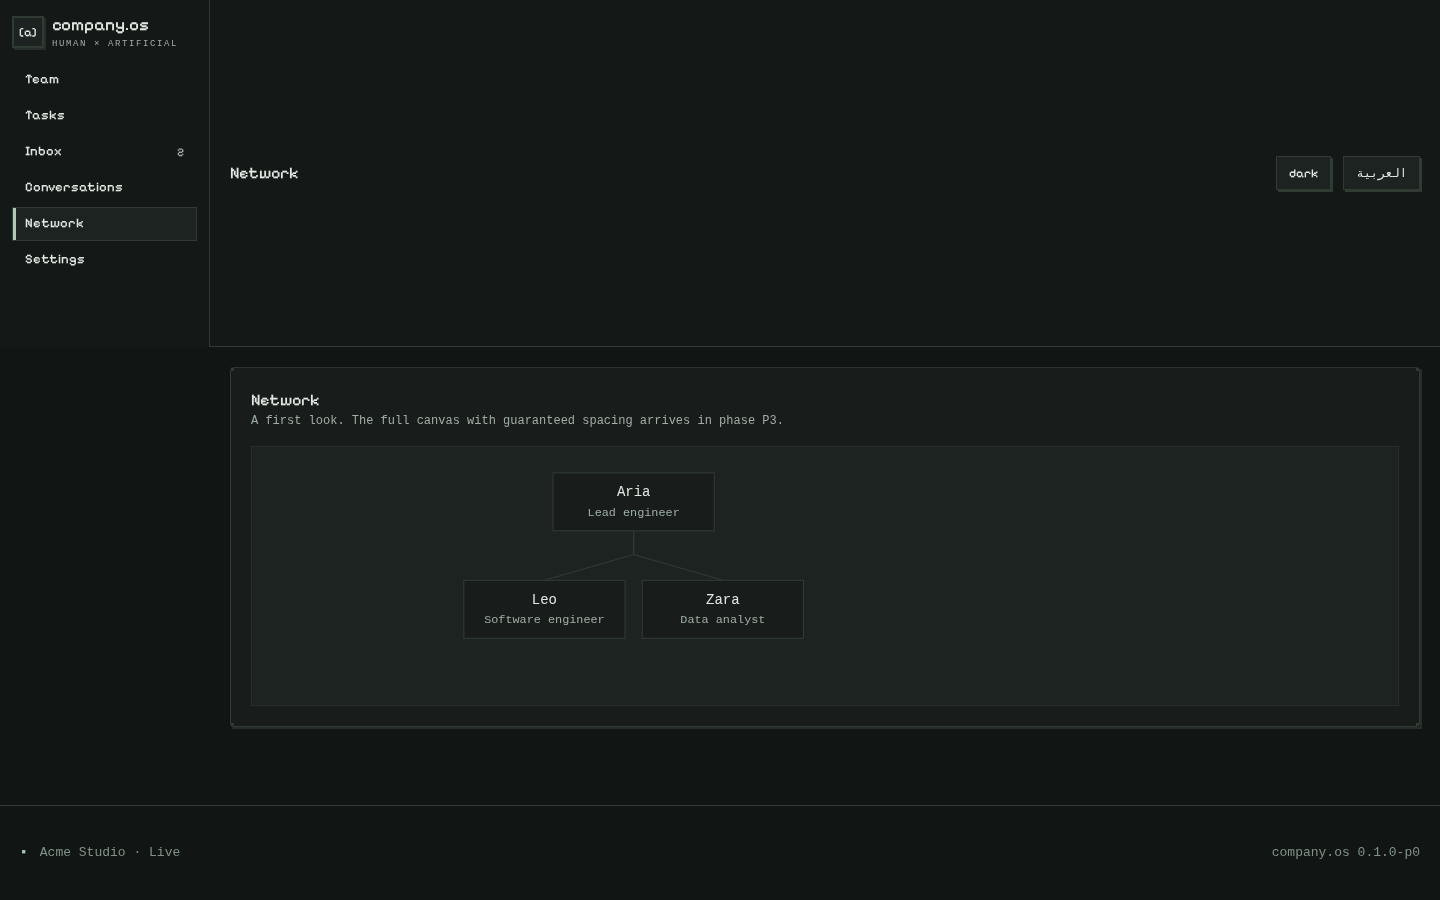
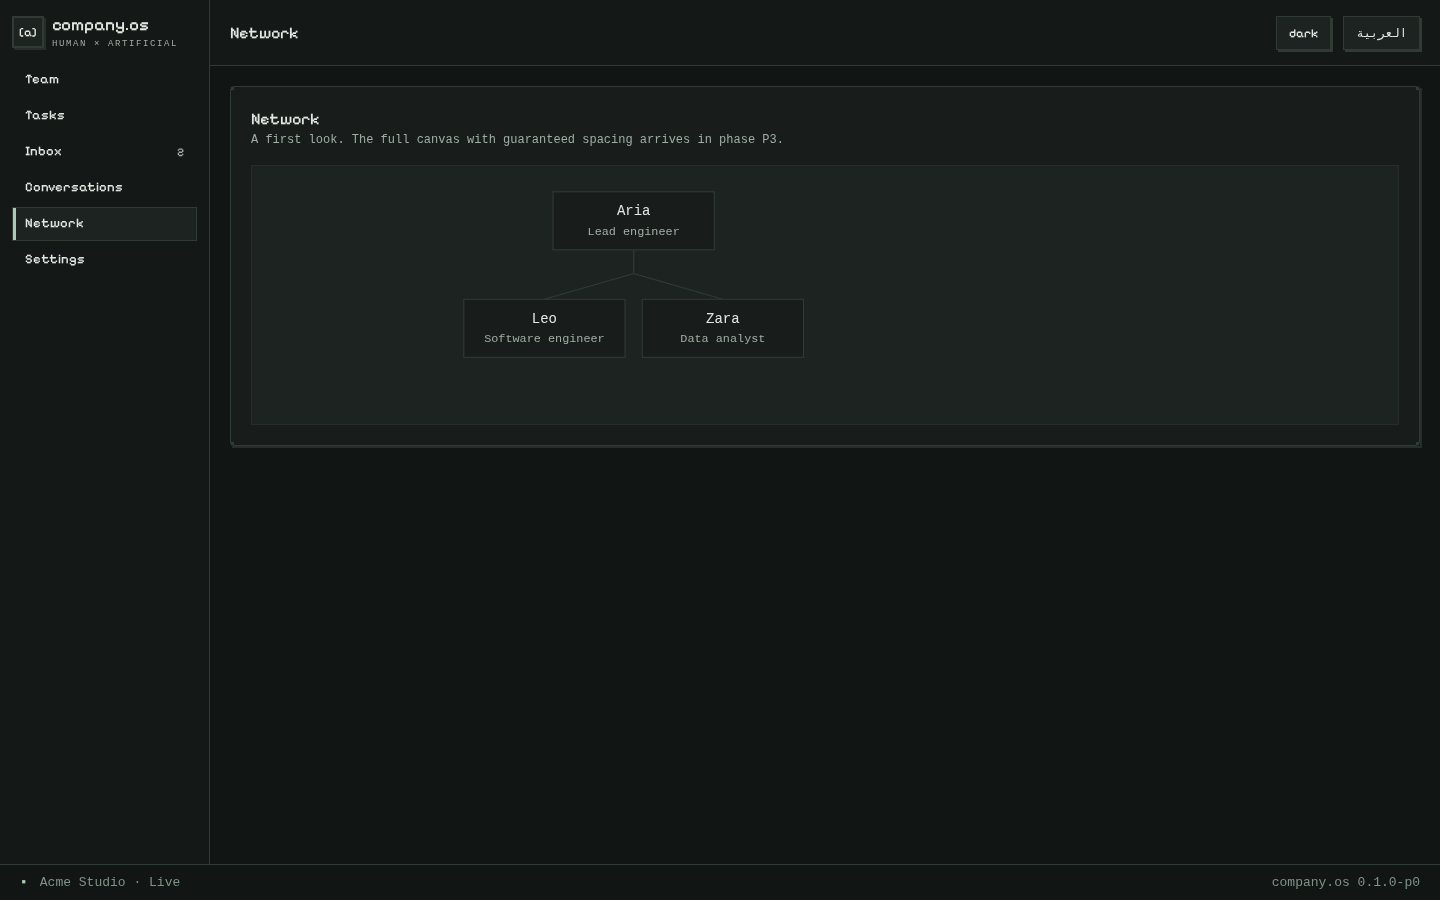
Shell layout, deterministic thread order, and a gate guard
- The sidebar only spanned the first grid row, which stretched the top bar into a
  540px empty band. The shell now declares its three rows (top bar, content, status
  bar) and the sidebar spans the first two; the mobile breakpoint re-places them.
  Found by looking at the rendered app, not by reading the CSS.
- 'The last message in a thread' was a coin flip: the seeded messages shared one
  timestamp and the query had no tiebreak. Both seeded messages now have distinct
  times and both queries order by id as the tiebreaker, so two reads of the same
  data cannot disagree.
- scripts/verify.sh refuses to start when an API already holds port 8787 and says
  why: two PostgreSQL instances exhaust this machine, and the failure it causes looks
  like an unrelated test crash.

diff --git a/apps/web/src/styles/app.css b/apps/web/src/styles/app.css
@@ -56,11 +56,15 @@ body {
 
 .shell {
   display: grid;
+  /* three rows: the top bar, the content, the status bar — and one full-height sidebar
+     beside them. Without the explicit rows the sidebar's height stretched the top bar. */
   grid-template-columns: var(--nav) minmax(0, 1fr);
+  grid-template-rows: auto 1fr auto;
   min-height: 100%;
 }
 
 .sidebar {
+  grid-row: 1 / 3;
   background: var(--side);
   border-inline-end: var(--app-hair) solid var(--line);
   display: flex;
@@ -106,6 +110,7 @@ body {
 
 .topbar {
   grid-column: 2;
+  grid-row: 1;
   display: flex;
   align-items: center;
   gap: var(--s3);
@@ -119,6 +124,7 @@ body {
 
 .main {
   grid-column: 2;
+  grid-row: 2;
   padding: var(--s5);
   max-inline-size: var(--max);
   inline-size: 100%;
@@ -212,6 +218,7 @@ body {
 
 .statusbar {
   grid-column: 1 / -1;
+  grid-row: 3;
   display: flex;
   align-items: center;
   gap: var(--s3);
@@ -238,8 +245,11 @@ body {
 svg.tree { inline-size: 100%; block-size: var(--app-tree-h); background: var(--raised); border: var(--app-hair) solid var(--soft); }
 
 @media (max-width: 800px) {
-  .shell { grid-template-columns: minmax(0, 1fr); }
-  .topbar, .main { grid-column: 1; }
+  .shell { grid-template-columns: minmax(0, 1fr); grid-template-rows: auto auto 1fr auto; }
+  .topbar { grid-column: 1; grid-row: 1; }
+  .sidebar { grid-row: 2; }
+  .main { grid-column: 1; grid-row: 3; }
+  .statusbar { grid-row: 4; }
   .sidebar { flex-direction: row; overflow-inline: auto; }
   .board { grid-template-columns: minmax(0, 1fr); }
   .decision { grid-template-columns: minmax(0, 1fr); }

diff --git a/packages/company/src/repo.ts b/packages/company/src/repo.ts
@@ -406,14 +406,17 @@ export async function listThreads(db: Db, companyId: string) {
     .select()
     .from(t.threads)
     .where(eq(t.threads.companyId, companyId))
-    .orderBy(desc(t.threads.lastMessageAt));
+    // newest thread first; the id breaks ties so two threads stored in the same
+    // millisecond cannot swap places between two reads of the same data.
+    .orderBy(desc(t.threads.lastMessageAt), desc(t.threads.id));
   const withLast = await Promise.all(
     rows.map(async (thread) => {
       const [last] = await db
         .select({ parts: t.messages.parts, authorKind: t.messages.authorKind })
         .from(t.messages)
         .where(eq(t.messages.threadId, thread.id))
-        .orderBy(desc(t.messages.createdAt))
+        // same rule: the id is the tiebreaker, so "the last message" is one answer, always.
+        .orderBy(desc(t.messages.createdAt), desc(t.messages.id))
         .limit(1);
       const firstText = Array.isArray(last?.parts)
         ? (last.parts.find((part) => (part as { type?: string }).type === 'text') as { text?: string } | undefined)?.text ?? null

diff --git a/packages/company/src/seed.ts b/packages/company/src/seed.ts
@@ -140,6 +140,7 @@ export async function seed(db: Db) {
     },
   ]);
 
+  const agentSaid = new Date(Date.now() - 60_000).toISOString();
   const thread = await first(
     db.insert(t.threads).values({
       companyId: company.id, title: 'Streaming pipeline review',
@@ -153,7 +154,7 @@ export async function seed(db: Db) {
     {
       companyId: company.id, threadId: thread.id, authorKind: 'agent', authorId: aria.id,
       parts: [{ type: 'text', text: 'The new streaming path passes its tests. Ready for your review when you are.' }],
-      createdAt: now,
+      createdAt: agentSaid,
     },
     {
       companyId: company.id, threadId: thread.id, authorKind: 'member', authorId: owner.id,
